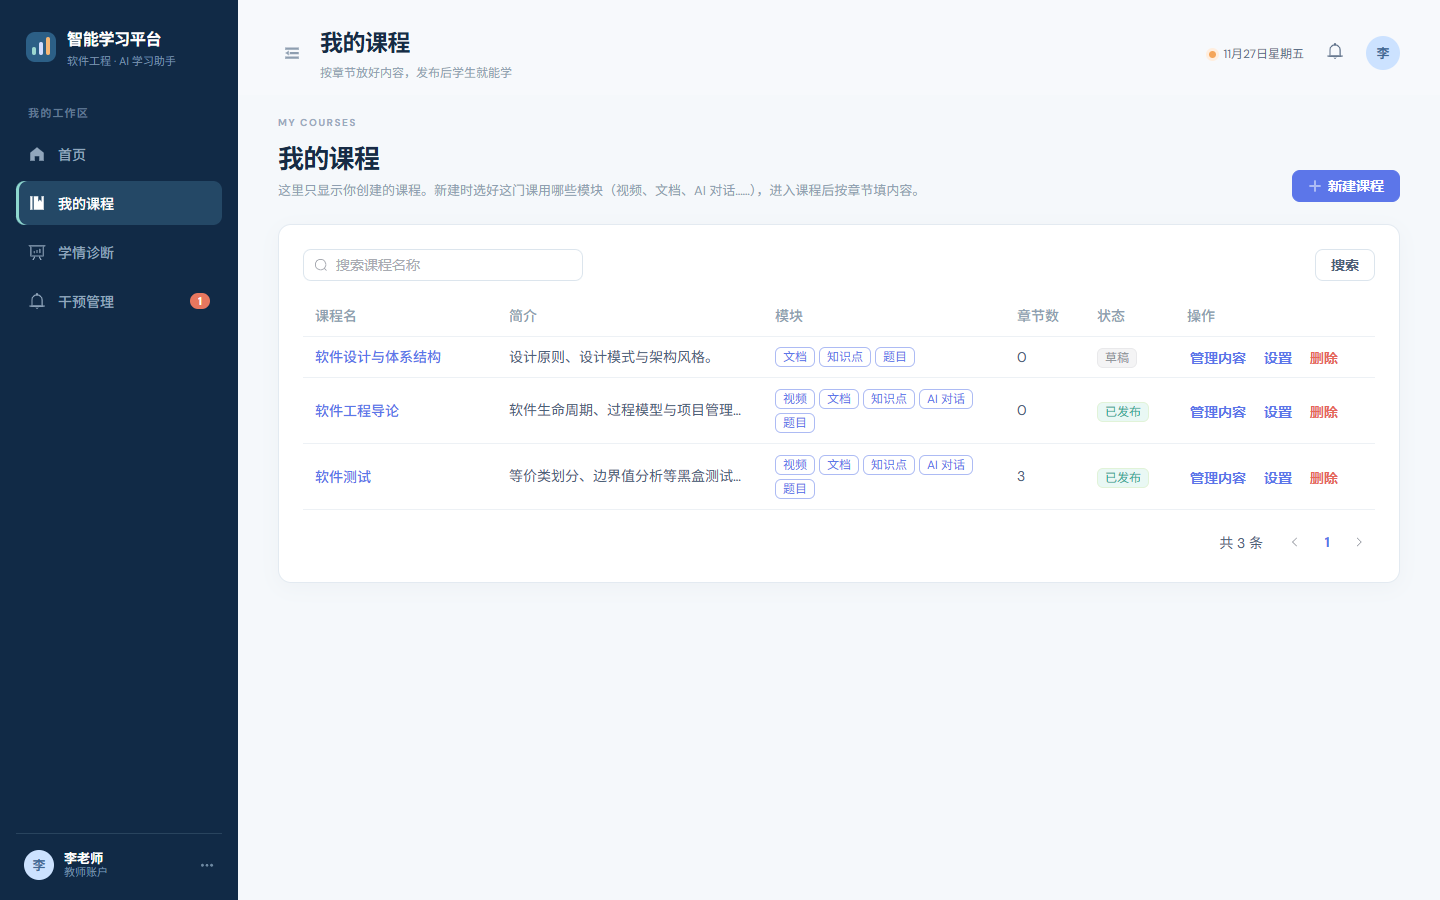
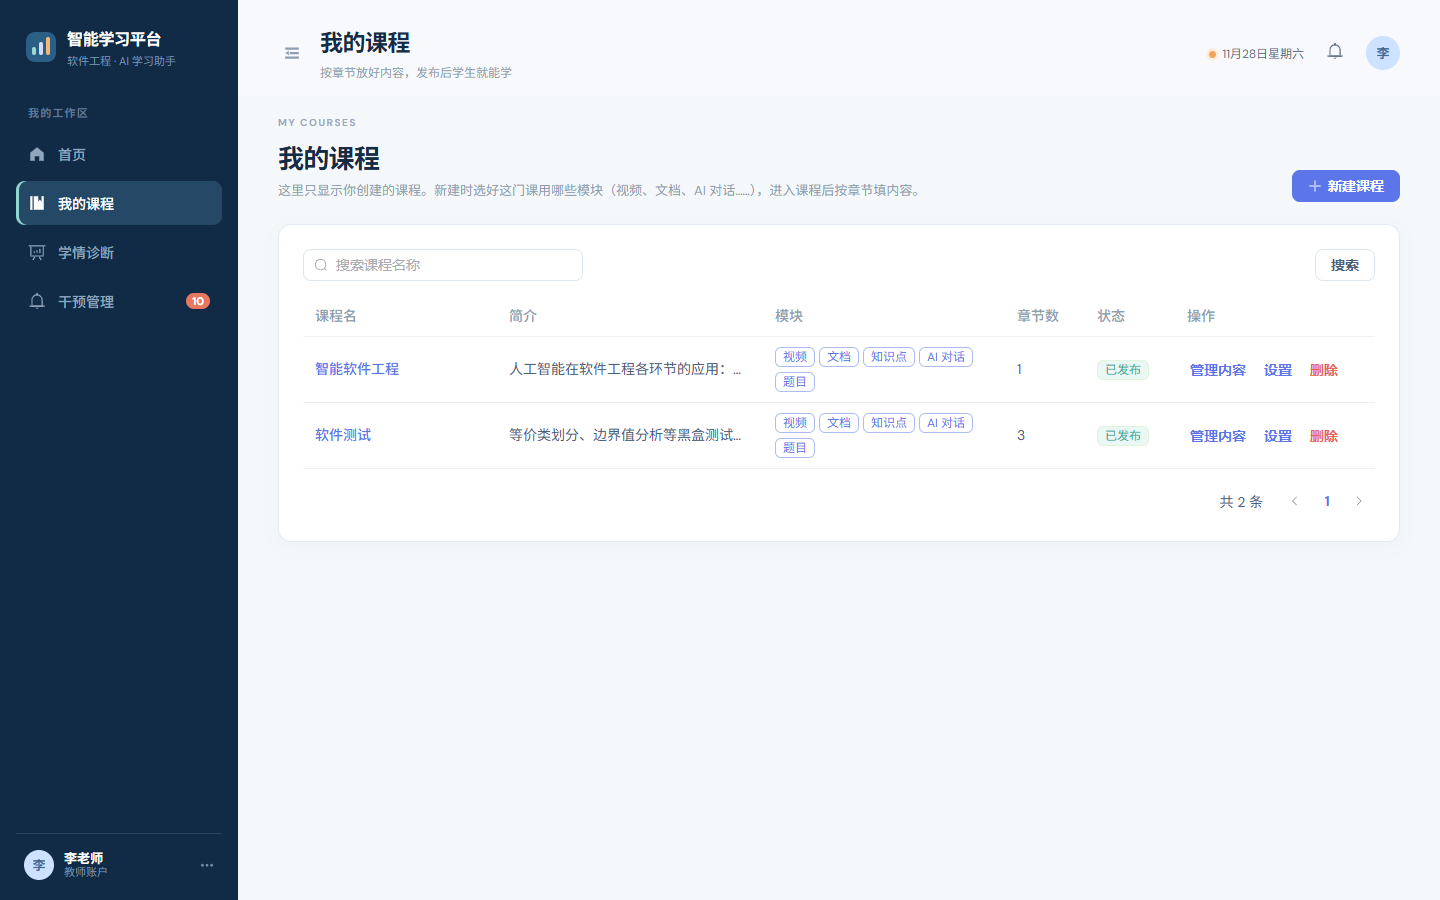
修 CI：学习推荐页去掉没用的变量；清理演示数据后重拍界面截图、数据库说明里的示例数据重新生成

diff --git a/frontend/src/views/recommend/RecommendView.vue b/frontend/src/views/recommend/RecommendView.vue
@@ -9,7 +9,7 @@
  * 练习里的题不在这里。
  */
 import { computed, ref, watch } from 'vue'
-import { useRoute, useRouter } from 'vue-router'
+import { useRoute } from 'vue-router'
 import { ElMessage } from 'element-plus'
 import PageHeader from '@/components/PageHeader.vue'
 import RemedyBox from '@/components/RemedyBox.vue'
@@ -17,7 +17,6 @@ import PushBox from '@/components/PushBox.vue'
 import { getRecommendations, saveExtend } from '@/api/recommend'
 
 const route = useRoute()
-const router = useRouter()
 
 const data = ref(null)
 const loading = ref(false)

diff --git a/docs/提交材料/07-数据库说明（MySQL）.md b/docs/提交材料/07-数据库说明（MySQL）.md
@@ -498,7 +498,7 @@ FROM mastery WHERE (student_id = ? AND knowledge_point_id = ?)
 - **主键 / 唯一约束 / 索引**：PRIMARY KEY (id)；索引 idx_course_teacher（teacher_id）
 - **谁写**：`CourseService`（修改、删除、新增）
 - **谁读**：`AssistantChatService`、`AssistantService`、`ClassPushService`、`CourseProfileService`、`CourseService`、`DeadlineService`、`DiagnosisService`、`EnrollmentService`、`ExerciseGenService`、`FeynmanDraftService`、`KpRecognizer`、`RecommendService`、`TeacherTodoService`
-- **现在的数据**：6
+- **现在的数据**：2
  行
 
 | 列 | 类型 | 约束 / 默认值 | 含义 |
@@ -537,7 +537,7 @@ FROM mastery WHERE (student_id = ? AND knowledge_point_id = ?)
 - **主键 / 唯一约束 / 索引**：PRIMARY KEY (id)；索引 idx_chapter_course（course_id）
 - **谁写**：`ChapterService`（修改、删除、新增）
 - **谁读**：`AssistantChatService`、`AssistantService`、`ChapterKpService`、`ChapterService`、`ClassAnalysisService`、`CourseProfileService`、`CourseService`、`DeadlineService`、`DiagnosisService`、`KpRecognizer`、`LearnService`、`ProgressService`、`RecommendService`、`RecordService`、`TeacherTodoService`
-- **现在的数据**：7
+- **现在的数据**：4
  行
 
 | 列 | 类型 | 约束 / 默认值 | 含义 |
@@ -578,7 +578,7 @@ FROM mastery WHERE (student_id = ? AND knowledge_point_id = ?)
 - **主键 / 唯一约束 / 索引**：PRIMARY KEY (id)；索引 idx_chapter_item_chapter（chapter_id）
 - **谁写**：`ChapterItemService`（修改、删除、新增）；`ClassPushService`（修改）
 - **谁读**：`AssistantService`、`ChapterItemService`、`ChapterKpService`、`ChapterService`、`ClassAnalysisService`、`ClassPushService`、`CompletionService`、`CourseProfileService`、`DeadlineService`、`DialogueService`、`ExerciseGenService`、`FeynmanDiagnosis`、`FeynmanDraftService`、`FeynmanEngine`、`KpRecognizer`、`LearnService`、`MaterialPipeline`、`ProgressService`、`RecordService`、`RemedyService`、`TeacherTodoService`
-- **现在的数据**：14
+- **现在的数据**：17
  行
 
 | 列 | 类型 | 约束 / 默认值 | 含义 |
@@ -625,7 +625,7 @@ FROM mastery WHERE (student_id = ? AND knowledge_point_id = ?)
 - **主键 / 唯一约束 / 索引**：PRIMARY KEY (id)；索引 idx_material_chapter（chapter_id）
 - **谁写**：`MaterialService`（删除、新增）
 - **谁读**：`MaterialService`
-- **现在的数据**：11
+- **现在的数据**：10
  行
 
 | 列 | 类型 | 约束 / 默认值 | 含义 |
@@ -670,7 +670,7 @@ FROM mastery WHERE (student_id = ? AND knowledge_point_id = ?)
 - **主键 / 唯一约束 / 索引**：PRIMARY KEY (id)；CONSTRAINT uk_material_job UNIQUE (item_id)
 - **谁写**：`MaterialPipeline`（修改、删除、新增）；`VideoTermFixer`（修改）
 - **谁读**：`ChapterKpService`、`MaterialPipeline`、`VideoTermFixer`
-- **现在的数据**：6
+- **现在的数据**：10
  行
 
 | 列 | 类型 | 约束 / 默认值 | 含义 |
@@ -715,7 +715,7 @@ FROM mastery WHERE (student_id = ? AND knowledge_point_id = ?)
 - **主键 / 唯一约束 / 索引**：PRIMARY KEY (id)；索引 idx_material_text_chapter（chapter_id, item_id）
 - **谁写**：`MaterialPipeline`（删除、新增）；`VideoTermFixer`（修改）
 - **谁读**：`KpRecognizer`、`VideoTermFixer`
-- **现在的数据**：195
+- **现在的数据**：218
  行
 
 | 列 | 类型 | 约束 / 默认值 | 含义 |
@@ -758,7 +758,7 @@ FROM mastery WHERE (student_id = ? AND knowledge_point_id = ?)
 - **主键 / 唯一约束 / 索引**：PRIMARY KEY (id)；CONSTRAINT uk_chapter_kp_state UNIQUE (chapter_id)
 - **谁写**：`ChapterKpService`（修改）；`KpRecognizer`（修改）；`MaterialPipeline`（修改、新增）
 - **谁读**：`ChapterKpService`、`FeynmanDraftService`、`KpRecognizer`、`MaterialPipeline`、`TeacherTodoService`
-- **现在的数据**：6
+- **现在的数据**：4
  行
 
 | 列 | 类型 | 约束 / 默认值 | 含义 |
@@ -846,7 +846,7 @@ FROM mastery WHERE (student_id = ? AND knowledge_point_id = ?)
 - **主键 / 唯一约束 / 索引**：PRIMARY KEY (id)；索引 idx_kp_chapter（chapter_id）
 - **谁写**：`ChapterKpService`（修改、新增）；`KnowledgePointService`（修改、删除、新增）
 - **谁读**：`AssistantChatService`、`AssistantService`、`ChapterKpService`、`ChapterService`、`ClassAnalysisService`、`ClassPushService`、`CourseProfileService`、`DiagnosisService`、`ExerciseGenService`、`ExerciseReviewService`、`ExerciseService`、`KnowledgePointService`、`MasteryService`、`RecommendService`、`RemedyService`
-- **现在的数据**：9
+- **现在的数据**：17
  行
 
 | 列 | 类型 | 约束 / 默认值 | 含义 |
@@ -891,7 +891,7 @@ FROM mastery WHERE (student_id = ? AND knowledge_point_id = ?)
 - **主键 / 唯一约束 / 索引**：PRIMARY KEY (id)；索引 idx_exercise_chapter（chapter_id）
 - **谁写**：`ClassAnalysisService`（删除）；`ClassPushService`（修改）；`ExerciseGenService`（修改、删除）；`ExerciseService`（修改、删除、新增）
 - **谁读**：`AssistantChatService`、`ChapterItemService`、`ChapterService`、`ClassAnalysisService`、`ClassPushService`、`ExerciseGenService`、`ExerciseReviewService`、`ExerciseService`、`PracticeAnalysis`、`RecommendService`、`RemedyService`、`TeacherTodoService`
-- **现在的数据**：64
+- **现在的数据**：138
  行
 
 | 列 | 类型 | 约束 / 默认值 | 含义 |
@@ -966,7 +966,7 @@ FROM mastery WHERE (student_id = ? AND knowledge_point_id = ?)
 - **主键 / 唯一约束 / 索引**：PRIMARY KEY (id)；CONSTRAINT uk_exercise_kp UNIQUE (exercise_id, knowledge_point_id)
 - **谁写**：`ChapterItemService`（删除）；`ClassAnalysisService`（删除）；`ExerciseService`（删除、新增）
 - **谁读**：`AssistantChatService`、`ClassAnalysisService`、`ClassPushService`、`DiagnosisService`、`ExerciseService`、`KnowledgePointService`、`MasteryService`
-- **现在的数据**：47
+- **现在的数据**：121
  行
 
 | 列 | 类型 | 约束 / 默认值 | 含义 |
@@ -993,7 +993,7 @@ FROM mastery WHERE (student_id = ? AND knowledge_point_id = ?)
 - **主键 / 唯一约束 / 索引**：PRIMARY KEY (id)；CONSTRAINT uk_enrollment UNIQUE (course_id, student_id)；索引 idx_enrollment_student（student_id）
 - **谁写**：`EnrollmentService`（新增）
 - **谁读**：`EnrollmentService`
-- **现在的数据**：60
+- **现在的数据**：11
  行
 
 | 列 | 类型 | 约束 / 默认值 | 含义 |
@@ -1022,7 +1022,7 @@ FROM mastery WHERE (student_id = ? AND knowledge_point_id = ?)
 - **主键 / 唯一约束 / 索引**：PRIMARY KEY (id)；索引 idx_learning_event_student（student_id, created_at）
 - **谁写**：`FeynmanEngine`（新增）；`ProgressService`（新增）；`RecordService`（新增）
 - **谁读**：`AssistantService`、`CompletionService`、`CourseProfileService`、`DiagnosisService`、`ProfileService`、`RecordService`
-- **现在的数据**：36
+- **现在的数据**：46
  行
 
 | 列 | 类型 | 约束 / 默认值 | 含义 |
@@ -1057,7 +1057,7 @@ FROM mastery WHERE (student_id = ? AND knowledge_point_id = ?)
 - **主键 / 唯一约束 / 索引**：PRIMARY KEY (id)；CONSTRAINT uk_item_progress UNIQUE (student_id, item_id)
 - **谁写**：`ProgressService`（修改、新增）
 - **谁读**：`ProgressService`
-- **现在的数据**：4
+- **现在的数据**：9
  行
 
 | 列 | 类型 | 约束 / 默认值 | 含义 |
@@ -1102,7 +1102,7 @@ FROM mastery WHERE (student_id = ? AND knowledge_point_id = ?)
 - **主键 / 唯一约束 / 索引**：PRIMARY KEY (id)；索引 idx_answer_record_student（student_id, submitted_at）
 - **谁写**：`ExerciseReviewService`（修改）；`RecordService`（新增）
 - **谁读**：`ClassAnalysisService`、`ClassPushService`、`CompletionService`、`CourseProfileService`、`DiagnosisService`、`ExerciseReviewService`、`MasteryService`、`PracticeAnalysis`、`ProfileService`、`RecommendService`、`RecordService`、`RemedyService`、`TeacherTodoService`
-- **现在的数据**：213
+- **现在的数据**：269
  行
 
 | 列 | 类型 | 约束 / 默认值 | 含义 |
@@ -1153,7 +1153,7 @@ FROM mastery WHERE (student_id = ? AND knowledge_point_id = ?)
 - **主键 / 唯一约束 / 索引**：PRIMARY KEY (id)；CONSTRAINT uk_mastery UNIQUE (student_id, knowledge_point_id)
 - **谁写**：`MasteryService`（修改、新增）
 - **谁读**：`AssistantChatService`、`AssistantService`、`ChapterKpService`、`ClassPushService`、`CourseProfileService`、`DiagnosisService`、`MasteryService`、`RemedyService`
-- **现在的数据**：22
+- **现在的数据**：37
  行
 
 | 列 | 类型 | 约束 / 默认值 | 含义 |
@@ -1198,7 +1198,7 @@ FROM mastery WHERE (student_id = ? AND knowledge_point_id = ?)
 - **主键 / 唯一约束 / 索引**：PRIMARY KEY (id)；CONSTRAINT uk_profile_snapshot UNIQUE (student_id, course_id)
 - **谁写**：`CourseProfileService`（新增）
 - **谁读**：`CourseProfileService`
-- **现在的数据**：1
+- **现在的数据**：2
  行
 
 | 列 | 类型 | 约束 / 默认值 | 含义 |
@@ -1229,7 +1229,7 @@ FROM mastery WHERE (student_id = ? AND knowledge_point_id = ?)
 - **主键 / 唯一约束 / 索引**：PRIMARY KEY (id)；CONSTRAINT uk_feynman_setup UNIQUE (item_id)
 - **谁写**：`FeynmanDraftService`（修改、新增）
 - **谁读**：`ChapterItemService`、`FeynmanDraftService`、`TeacherTodoService`
-- **现在的数据**：1
+- **现在的数据**：2
  行
 
 | 列 | 类型 | 约束 / 默认值 | 含义 |
@@ -1266,7 +1266,7 @@ FROM mastery WHERE (student_id = ? AND knowledge_point_id = ?)
 - **主键 / 唯一约束 / 索引**：PRIMARY KEY (id)
 - **谁写**：`FeynmanDraftService`（修改）；`FeynmanEngine`（修改、新增）
 - **谁读**：`FeynmanDiagnosis`、`FeynmanEngine`
-- **现在的数据**：6
+- **现在的数据**：7
  行
 
 | 列 | 类型 | 约束 / 默认值 | 含义 |
@@ -1301,7 +1301,7 @@ FROM mastery WHERE (student_id = ? AND knowledge_point_id = ?)
 - **主键 / 唯一约束 / 索引**：PRIMARY KEY (id)；索引 idx_feynman_message_session（session_id）
 - **谁写**：`FeynmanEngine`（修改、新增）
 - **谁读**：`FeynmanEngine`
-- **现在的数据**：117
+- **现在的数据**：158
  行
 
 | 列 | 类型 | 约束 / 默认值 | 含义 |
@@ -1538,7 +1538,7 @@ FROM mastery WHERE (student_id = ? AND knowledge_point_id = ?)
 - **主键 / 唯一约束 / 索引**：PRIMARY KEY (id)；索引 idx_item_analysis（item_id）
 - **谁写**：`ClassAnalysisService`（新增）
 - **谁读**：`ClassAnalysisService`
-- **现在的数据**：2
+- **现在的数据**：3
  行
 
 | 列 | 类型 | 约束 / 默认值 | 含义 |
@@ -1555,14 +1555,14 @@ FROM mastery WHERE (student_id = ? AND knowledge_point_id = ?)
 
 | 列 | 值 |
 |---|---|
-| `id` | 1 |
+| `id` | 5 |
 | `item_id` | 2 |
 | `due_at` | 2026-11-26 21:30:08 |
 | `status` | void |
 | `students` | 10 |
 | `submitted` | 7 |
 | `analyzed_at
-` | 2026-11-27 12:54:32
+` | 2026-11-28 15:28:24
  |
 
 ### `class_issue`（老师干预）
@@ -1573,7 +1573,7 @@ FROM mastery WHERE (student_id = ? AND knowledge_point_id = ?)
 - **主键 / 唯一约束 / 索引**：PRIMARY KEY (id)；索引 idx_class_issue_item（item_id）
 - **谁写**：`ClassAnalysisService`（修改、删除、新增）；`ClassPushService`（修改）
 - **谁读**：`ClassAnalysisService`、`ClassPushService`
-- **现在的数据**：6
+- **现在的数据**：12
  行
 
 | 列 | 类型 | 约束 / 默认值 | 含义 |
@@ -1598,8 +1598,8 @@ FROM mastery WHERE (student_id = ? AND knowledge_point_id = ?)
 
 | 列 | 值 |
 |---|---|
-| `id` | 11 |
-| `analysis_id` | 4 |
+| `id` | 20 |
+| `analysis_id` | 6 |
 | `item_id` | 65 |
 | `course_id` | 1 |
 | `kind` | question |
@@ -1611,9 +1611,9 @@ FROM mastery WHERE (student_id = ? AND knowledge_point_id = ?)
 | `wrong` | 7 |
 | `student_ids` | 5,6,8,10,11,9,13 |
 | `status` | ok |
-| `created_at` | 2026-11-28 10:43:07 |
+| `created_at` | 2026-11-28 15:28:24 |
 | `updated_at
-` | 2026-11-28 10:43:07
+` | 2026-11-28 15:28:24
  |
 
 ### `class_push`（老师干预）
@@ -1651,24 +1651,24 @@ FROM mastery WHERE (student_id = ? AND knowledge_point_id = ?)
 
 | 列 | 值 |
 |---|---|
-| `id` | 1 |
+| `id` | 2 |
 | `course_id` | 1 |
 | `item_id` | 65 |
-| `issue_ids` | 18 |
+| `issue_ids` | 27 |
 | `knowledge_point_id` | 6 |
 | `assess_type` | concept |
-| `explanation` | 四种技术不是“谁更强”，而是“谁更适合”。可以这样对比记：基于模型像按地图走路线，前提是系统行为能画成状态图，适合流程清楚、状态转换多的场景；基于自然语言处理像… |
+| `explanation` | 四种技术不是四个“段位”，而是四把不同形状的工具，别拿一把锤子敲所有钉子。基于模型像照着地铁线路图找换乘路径，适合流程清楚、状态变化明确的系统；基于自然语言处理… |
 | `explanation_by` | ai |
-| `exercise_ids` | 170,171,172 |
+| `exercise_ids` | 211,212,213 |
 | `student_ids` | 5,6,8,10,11,9,13 |
 | `before_rate` | 0.88 |
 | `status` | pushed |
-| `due_at` | 2026-12-05 23:59:00 |
-| `pushed_at` | 2026-11-28 10:44:26 |
-| `created_at` | 2026-11-28 10:44:04 |
-| `updated_at` | 2026-11-28 10:44:04 |
+| `due_at` | 2026-12-05 23:02:12 |
+| `pushed_at` | 2026-11-28 15:30:32 |
+| `created_at` | 2026-11-28 15:29:47 |
+| `updated_at` | 2026-11-28 15:29:47 |
 | `accepted_ids
-` | 5
+` | 5,6,8,9,10,11,13
  |
 
 ### `remedy_round`（小助手）
@@ -1679,7 +1679,7 @@ FROM mastery WHERE (student_id = ? AND knowledge_point_id = ?)
 - **主键 / 唯一约束 / 索引**：PRIMARY KEY (id)；索引 idx_remedy_student（student_id, knowledge_point_id）
 - **谁写**：`RecommendService`（修改）；`RemedyService`（修改、新增）
 - **谁读**：`RecommendService`、`RemedyService`
-- **现在的数据**：5
+- **现在的数据**：7
  行
 
 | 列 | 类型 | 约束 / 默认值 | 含义 |
@@ -1726,7 +1726,7 @@ FROM mastery WHERE (student_id = ? AND knowledge_point_id = ?)
 - **主键 / 唯一约束 / 索引**：PRIMARY KEY (id)；索引 idx_assistant_message（student_id, chapter_id）
 - **谁写**：`AssistantChatService`（新增）
 - **谁读**：`AssistantChatService`
-- **现在的数据**：32
+- **现在的数据**：34
  行
 
 | 列 | 类型 | 约束 / 默认值 | 含义 |
@@ -1765,7 +1765,7 @@ FROM mastery WHERE (student_id = ? AND knowledge_point_id = ?)
 - **主键 / 唯一约束 / 索引**：PRIMARY KEY (id)；索引 idx_assistant_notice（student_id）
 - **谁写**：`ClassPushService`（新增）
 - **谁读**：`ClassPushService`
-- **现在的数据**：0
+- **现在的数据**：3
  行
 
 | 列 | 类型 | 约束 / 默认值 | 含义 |
@@ -1776,7 +1776,17 @@ FROM mastery WHERE (student_id = ? AND knowledge_point_id = ?)
 | `content` | VARCHAR(500) | NOT NULL | 提醒的文字 |
 | `created_at` | DATETIME |  | 这一行创建的时间（MyBatis-Plus 自动填） |
 
-（现在没有数据。）
+一行真实数据（长的内容截断到 80 字）：
+
+| 列 | 值 |
+|---|---|
+| `id` | 1 |
+| `student_id` | 12 |
+| `item_id` | 2 |
+| `content` | 老师提醒：「练习：边界值小测」你还没交，记得完成。 |
+| `created_at
+` | 2026-11-28 15:28:47
+ |
 
 ### `ai_call_log`（运维）
 
@@ -1786,7 +1796,7 @@ FROM mastery WHERE (student_id = ? AND knowledge_point_id = ?)
 - **主键 / 唯一约束 / 索引**：PRIMARY KEY (id)
 - **谁写**：`AiCallLogService`（修改、新增）
 - **谁读**：`AiCallLogService`
-- **现在的数据**：128
+- **现在的数据**：243
  行
 
 | 列 | 类型 | 约束 / 默认值 | 含义 |
